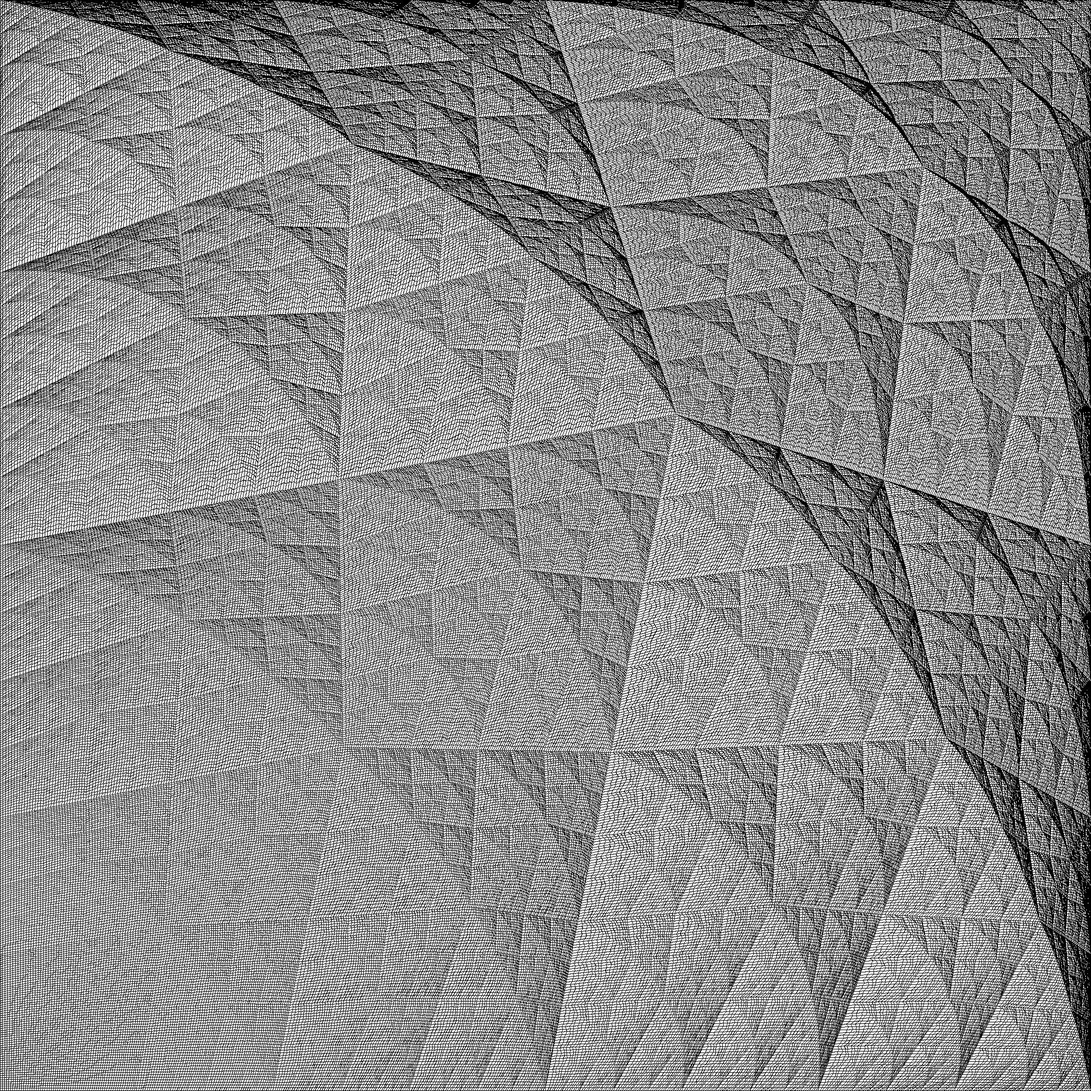
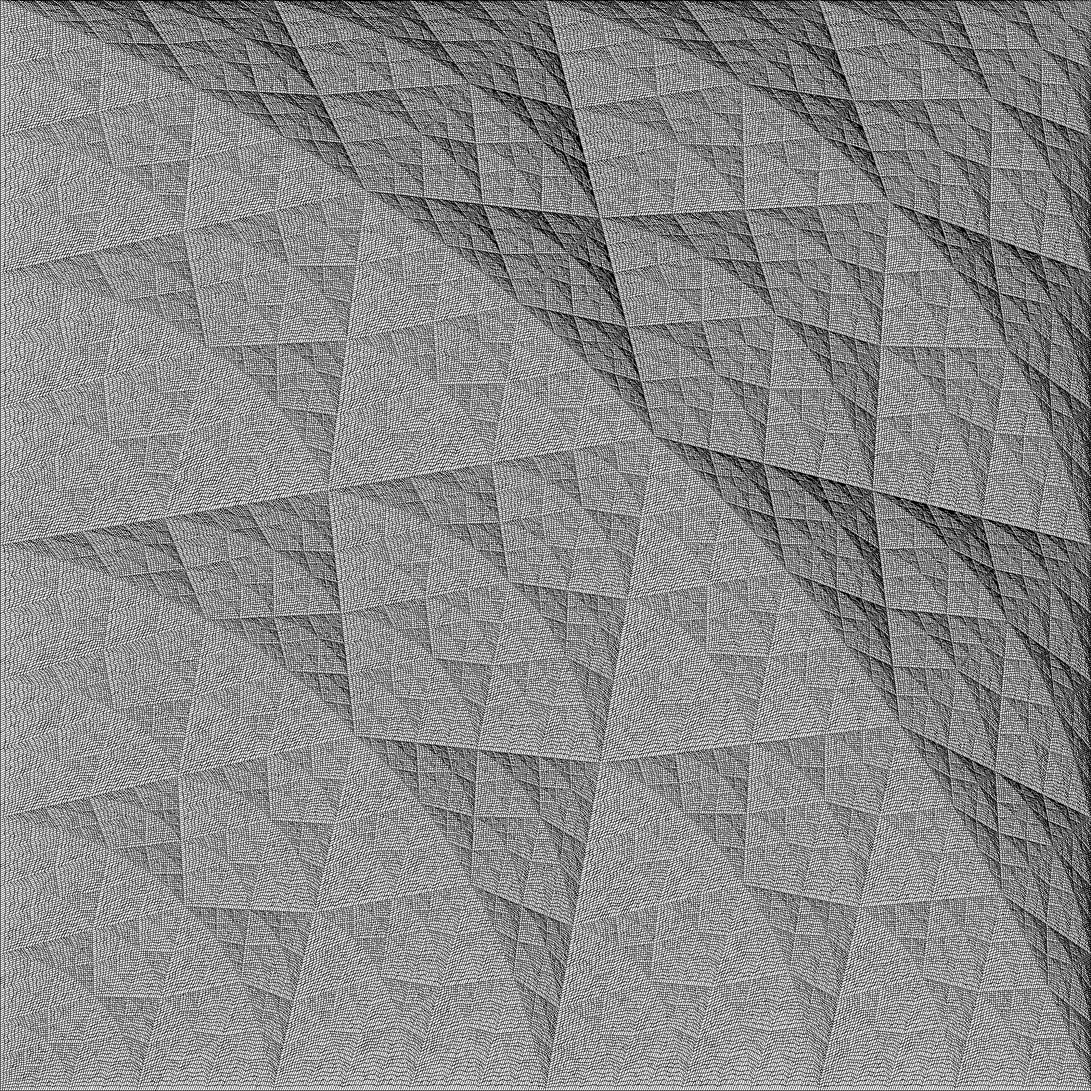
Fanを簡略化

diff --git a/Gallery2D/Fan.py b/Gallery2D/Fan.py
@@ -16,9 +16,9 @@ class Fan(Figure):
         center = sum([p for p in self.poly.points], point_2d(0, 0)).scaled(1 / 4)
         mid_points = [(self.poly.points[i - 1] + self.poly.points[i]).scaled(1 / 2) for i in range(4)]
         # ズレを(r, t)だけ追加する
-        d = 0.25
-        r = d * sin(center[0]) * dx
-        t = d * sin(center[1]) * dy
+        d = 0.1
+        r = d * dx
+        t = d * dy
         center = center + point_2d(r, t)
         return iter((Fan(Polygon([self.poly.points[0], mid_points[1], center, mid_points[0]]), self.n - 1),
                      Fan(Polygon([mid_points[1], self.poly.points[1], mid_points[2], center]), self.n - 1),
